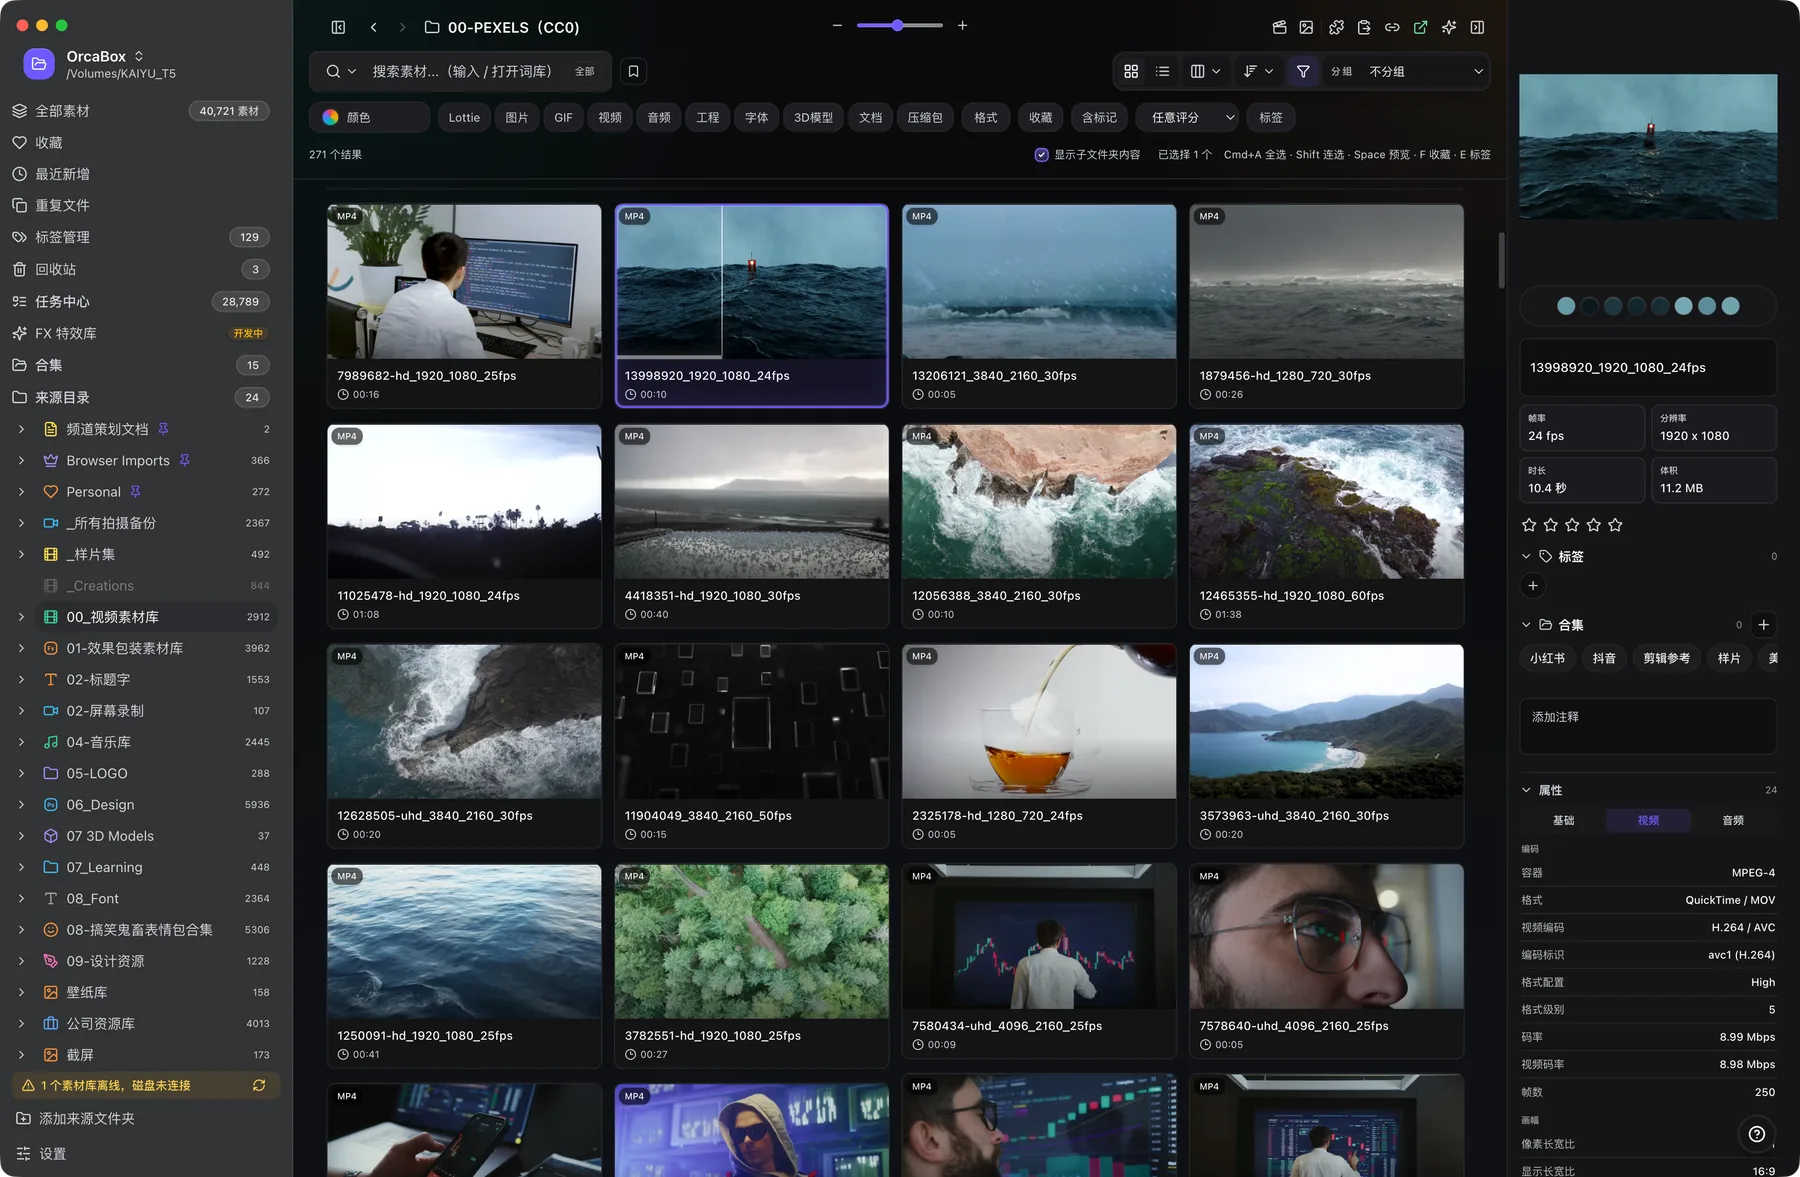
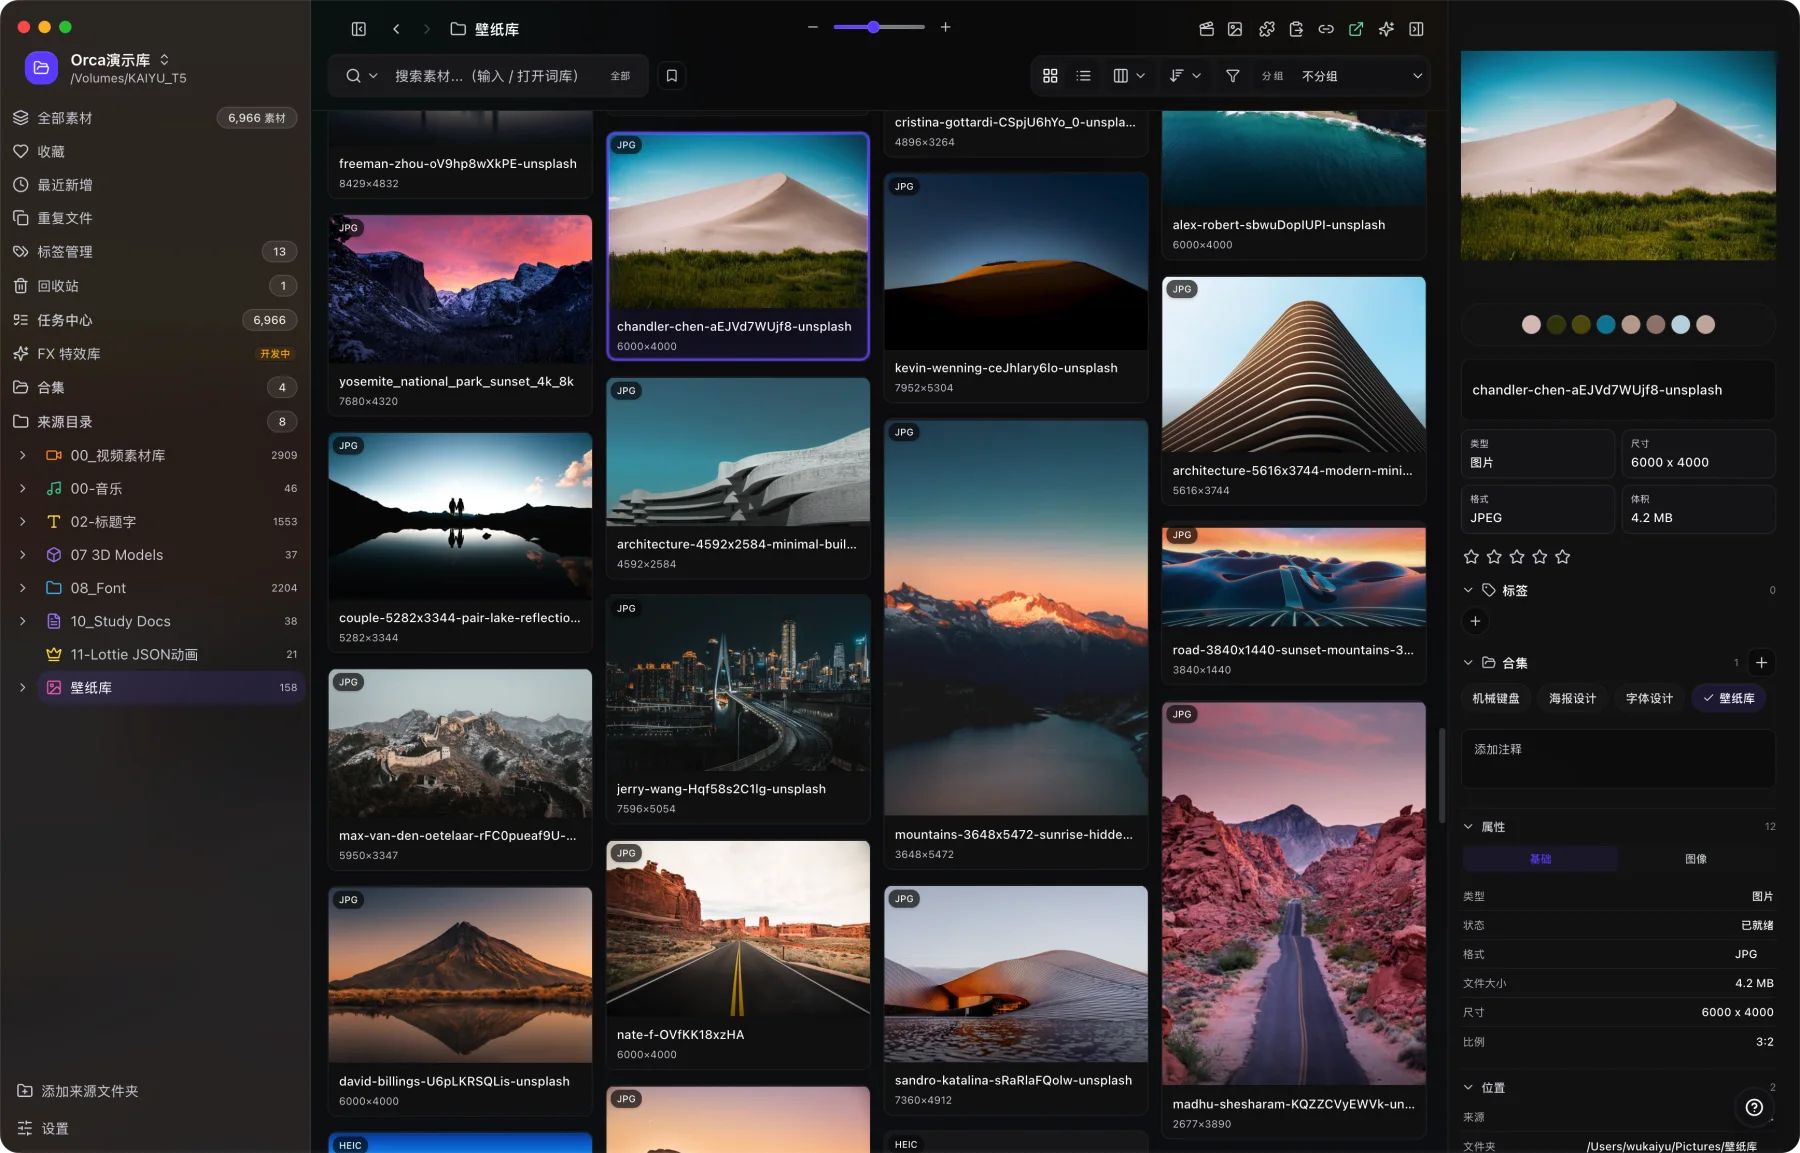
docs: update hero screenshot for OrcaBox 1.2.1

diff --git a/index.html b/index.html
@@ -460,7 +460,7 @@ a{color:inherit;text-decoration:none}
     </div>
   </div>
   <div class="hero-shot-wrap" id="heroShotWrap">
-    <img class="hero-shot" id="heroShot" src="assets/product-1.2.1-hero.webp" alt="OrcaBox 1.2.1 视频素材预览" loading="eager">
+    <img class="hero-shot" id="heroShot" src="assets/product-1.2.1-hero.webp" alt="OrcaBox 1.2.1 图片壁纸预览" loading="eager">
   </div>
 </section>
 
